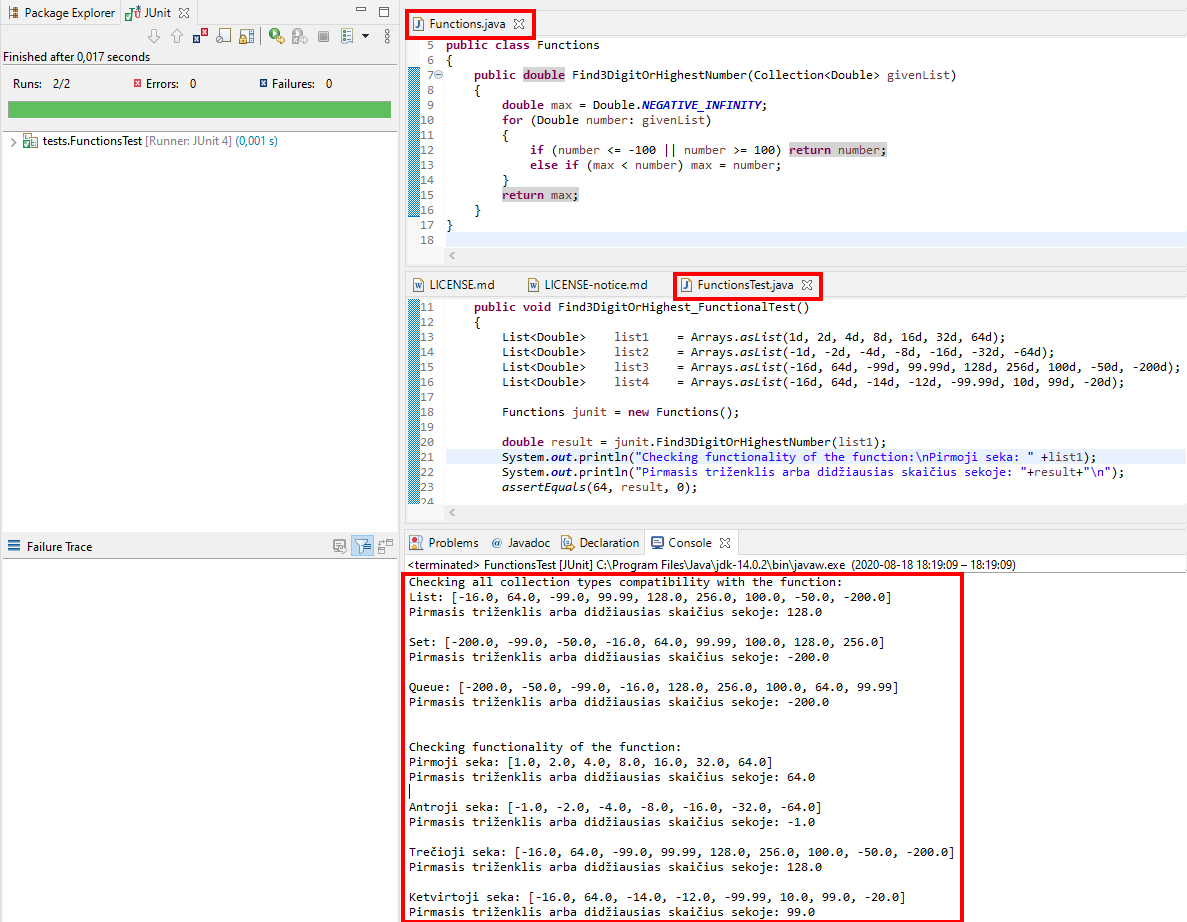
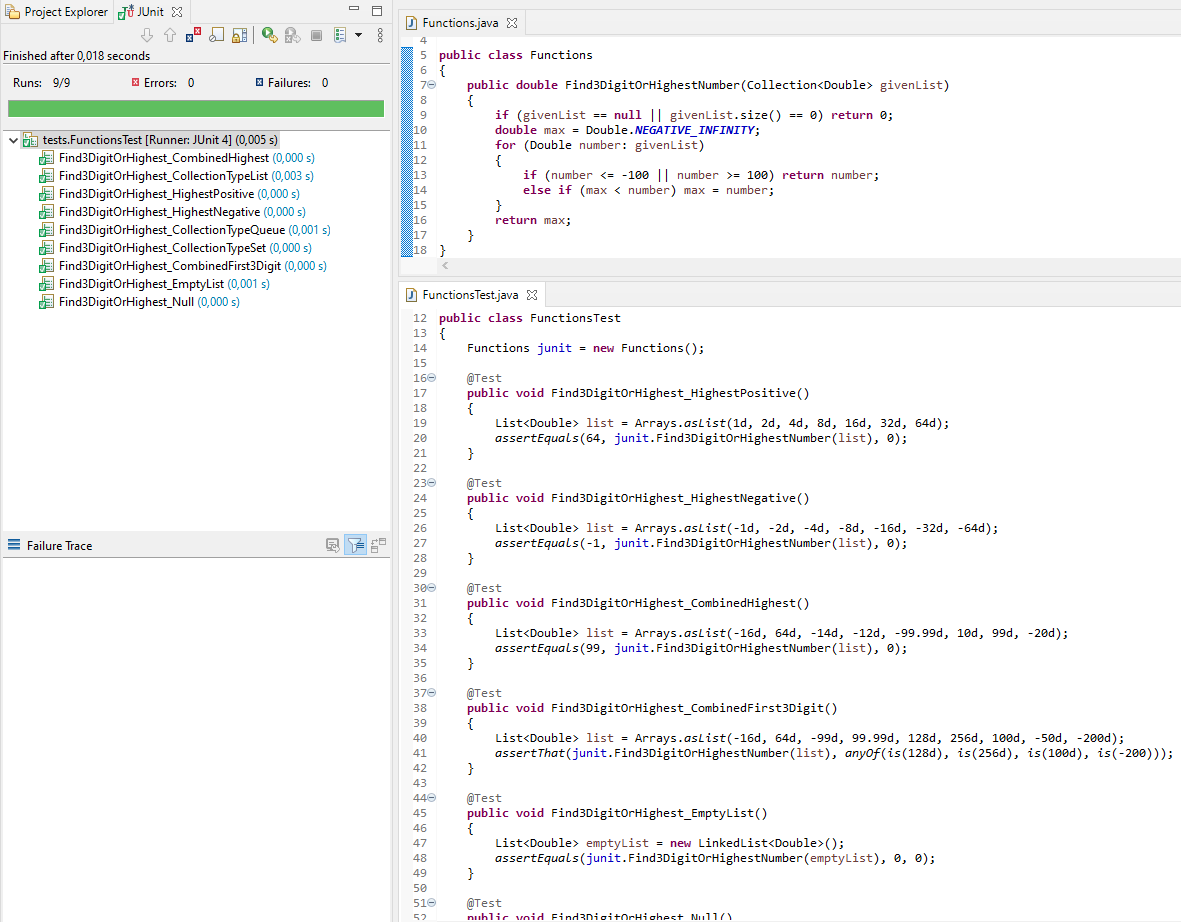
Second commit

Changed region(s): [[0.0, 0.0, 1.0, 1.0], [0.0, 0.577, 0.0914, 0.6074]]

diff --git a/src/tests/java/FunctionsTest.java b/src/tests/java/FunctionsTest.java
@@ -1,0 +1,77 @@
+package tests;
+
+import org.junit.Test;
+import static org.junit.Assert.assertEquals;
+import static org.hamcrest.MatcherAssert.assertThat;
+import static org.hamcrest.CoreMatchers.*;
+
+
+import java.util.*;
+import main.Functions;
+
+public class FunctionsTest
+{
+	Functions junit = new Functions();
+	
+	@Test
+	public void Find3DigitOrHighest_HighestPositive() 
+	{
+		List<Double> list = Arrays.asList(1d, 2d, 4d, 8d, 16d, 32d, 64d);
+        assertEquals(64, junit.Find3DigitOrHighestNumber(list), 0);
+	}
+	
+	@Test
+	public void Find3DigitOrHighest_HighestNegative() 
+	{
+		List<Double> list = Arrays.asList(-1d, -2d, -4d, -8d, -16d, -32d, -64d);
+        assertEquals(-1, junit.Find3DigitOrHighestNumber(list), 0);
+	}
+	
+	@Test
+	public void Find3DigitOrHighest_CombinedHighest() 
+	{
+		List<Double> list = Arrays.asList(-16d, 64d, -14d, -12d, -99.99d, 10d, 99d, -20d);
+		assertEquals(99, junit.Find3DigitOrHighestNumber(list), 0);
+	}
+	
+	@Test
+	public void Find3DigitOrHighest_CombinedFirst3Digit() 
+	{
+		List<Double> list = Arrays.asList(-16d, 64d, -99d, 99.99d, 128d, 256d, 100d, -50d, -200d);
+		assertThat(junit.Find3DigitOrHighestNumber(list), anyOf(is(128d), is(256d), is(100d), is(-200)));
+	}
+	
+	@Test
+	public void Find3DigitOrHighest_EmptyList() 
+	{
+		List<Double> emptyList = new LinkedList<Double>();
+		assertEquals(junit.Find3DigitOrHighestNumber(emptyList), 0, 0);
+	}
+	
+	@Test
+	public void Find3DigitOrHighest_Null() 
+	{
+        assertEquals(junit.Find3DigitOrHighestNumber(null), 0, 0);
+	}
+	
+	@Test
+	public void Find3DigitOrHighest_CollectionTypeList() 
+	{
+		List<Double> list = Arrays.asList(-16d, 64d, -99d, 99.99d, 128d, 256d, 100d, -50d, -200d);
+        assertThat(junit.Find3DigitOrHighestNumber(list), anyOf(is(128d), is(256d), is(100d), is(-200d)));
+	}
+	
+	@Test
+	public void Find3DigitOrHighest_CollectionTypeSet() 
+	{
+		Set<Double> set = new TreeSet<Double>(Arrays.asList(-16d, 64d, -99d, 99.99d, 128d, 256d, 100d, -50d, -200d)); 
+        assertThat(junit.Find3DigitOrHighestNumber(set), anyOf(is(128d), is(256d), is(100d), is(-200d)));
+	}
+	
+	@Test
+	public void Find3DigitOrHighest_CollectionTypeQueue() 
+	{
+		Queue<Double> queue = new PriorityQueue<Double>(Arrays.asList(-16d, 64d, -99d, 99.99d, 128d, 256d, 100d, -50d, -200d)); 
+        assertThat(junit.Find3DigitOrHighestNumber(queue), anyOf(is(128d), is(256d), is(100d), is(-200d)));
+	}
+}

diff --git a/src/main/java/Functions.java b/src/main/java/Functions.java
@@ -5,7 +5,8 @@ import java.util.*;
 public class Functions 
 {
 	public double Find3DigitOrHighestNumber(Collection<Double> givenList)
-    {
+    { 
+		if (givenList == null || givenList.size() == 0) return 0;
         double max = Double.NEGATIVE_INFINITY;
         for (Double number: givenList)
         {
